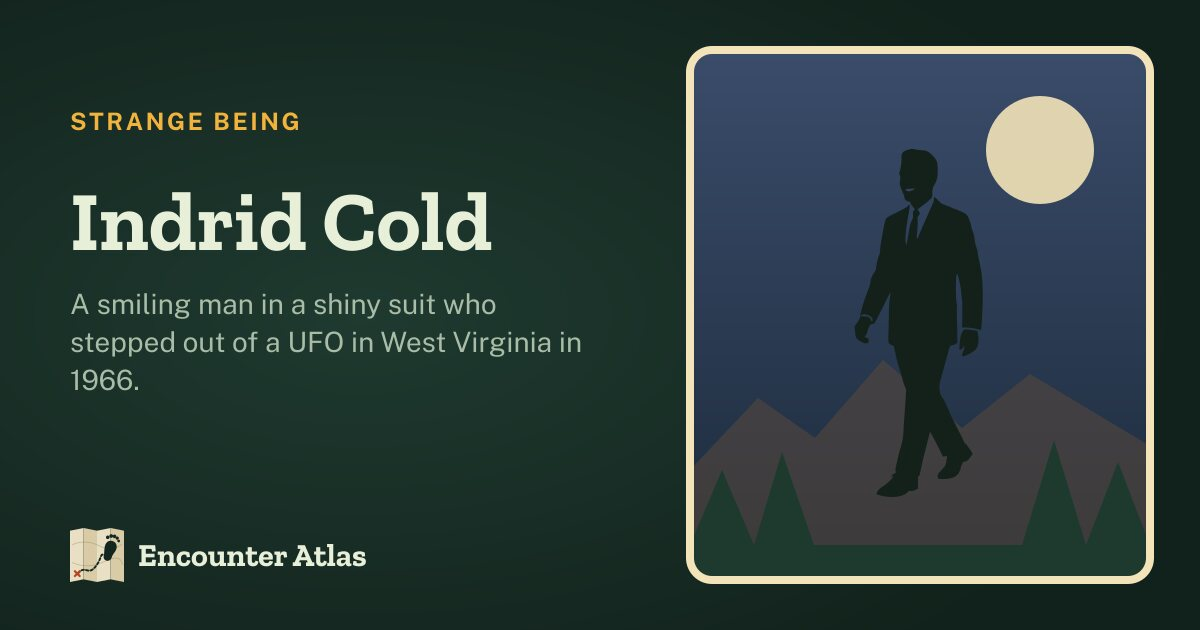
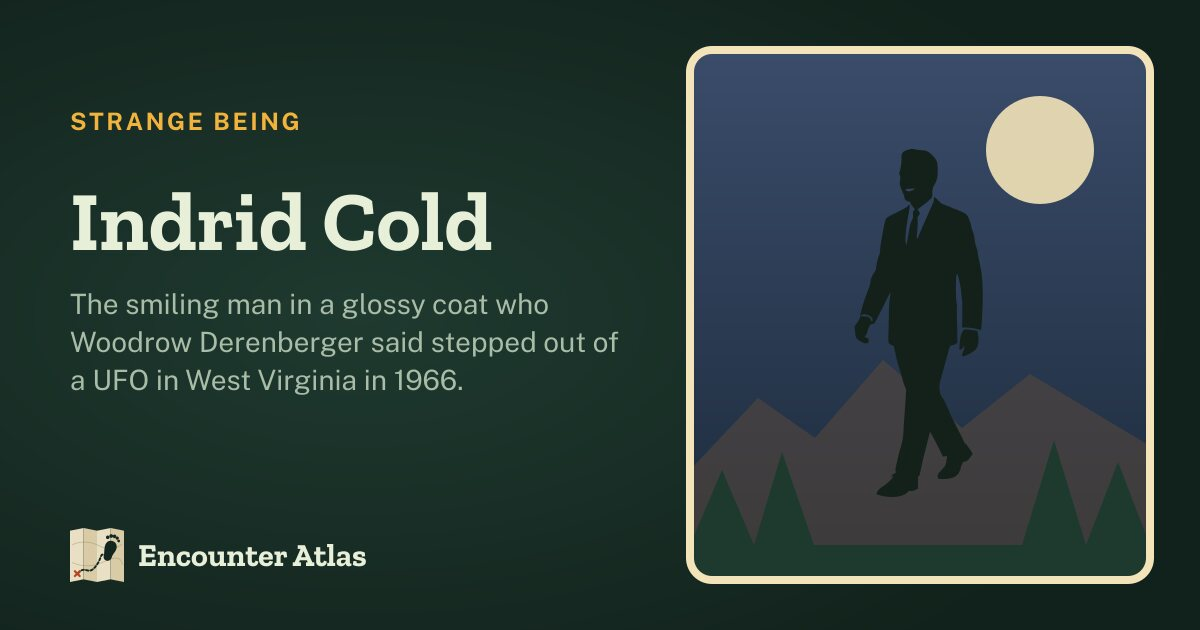
Indrid Cold: full hand-written page in Mike's voice

Changed region(s): [[0.0617, 0.4524, 0.5242, 0.6333]]

diff --git a/site/sw.js b/site/sw.js
@@ -2,7 +2,7 @@
 // 2.5 s) the last saved copy shows instead, and offline falls back to it too,
 // static files and map data cache-first. Map tiles are left to the browser cache.
 // Also: sighting-alert notifications (push), and waking the report form when a report queued with no signal can go.
-const V = 'ea-v99';
+const V = 'ea-v100';
 const BASE = new URL(self.registration.scope).pathname.replace(/\/$/, '');
 self.addEventListener('install', (e) => {
   e.waitUntil(caches.open(V).then((c) => c.addAll([BASE + '/', BASE + '/map/', BASE + '/near-me/', BASE + '/report/', BASE + '/static/site.css', BASE + '/static/map.js',
